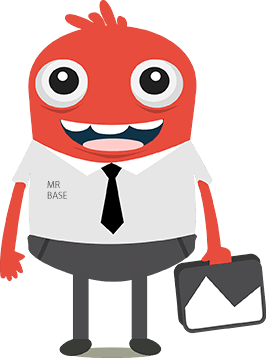
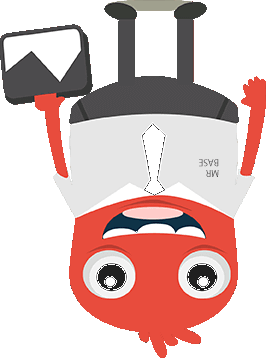
proyecto funcional

diff --git a/index.html b/index.html
@@ -70,7 +70,7 @@
     <div class="col-md-4 text-center">
         <div>
           <label class="dropimage">
-            <input title="Hacer Click aqui" type="file" name="foto1" id="foto1" required="true">
+            <input title="Hacer Click aqui" type="file" name="file" id="file" required="true">
           </label>
         </div>
     </div>

diff --git a/recibe_imgs.php b/recibe_imgs.php
@@ -1,36 +1,31 @@
 <?php 
-$archivoImg = $_FILES["foto".$i]["name"];
-$source   = $_FILES["foto".$i]["tmp_name"];
+$archivoImgName = $_FILES["file"]["name"];
+$archivoImg   = $_FILES["file"]["tmp_name"];
 
 
 //Verifico la extension de la Imagen 
-$explode        = explode('.', $archivoImg);
+$explode        = explode('.', $archivoImgName);
 $extension      = array_pop($explode);
 $grado = 180;
-//$grado = 360;
+$gradojpg = 360;
 
 
-if ($extension =="png") {
-    $imgpngOne  = imagecreatefrompng($archivoImg); 
-    $rotatepng  = imagerotate($imgpngOne, $grado, 0);
-    imagepng($rotatepng,"filesImgs/".$archivoImg);
-}
-if ($extension =="PNG") {
-    $imgpngTwo = imagecreatefrompng($archivoImg); 
+$png = 'png';
+$PNG = 'PNG';    
+if ($extension == $png || $extension == $PNG) {
+    $imgpngTwo =  imagecreatefrompng($archivoImg);
     $rotatepng = imagerotate($imgpngTwo, $grado, 0);
-    imagepng($rotatepng, "filesImgs/".$archivoImg);
-}
-if ($extension =="jpg") {
+    imagepng($rotatepng, "filesImgs/".$archivoImgName);
+}elseif ($extension == "jpg" || $extension == "jpeg") {
     $imgjpgOne  = imagecreatefromjpeg($archivoImg);
-    $rotatejpg  = imagerotate($imgjpgOne, $grado, 0);
-    imagejpeg($rotatejpg,"filesImgs/". $archivoImg);
+    $rotatejpg  = imagerotate($imgjpgOne, $gradojpg, 0);
+    imagejpeg($rotatejpg,"filesImgs/". $archivoImgName);
 }
-if ($extension =="jpeg") {
-    $imgjpegTwo   = imagecreatefromjpeg($archivoImg);
-    $rotatejpeg   = imagerotate($imgjpegTwo, $grado, 0);
-    imagejpeg($rotatejpeg,"filesImgs/". $archivoImg);
+else{
+   echo "Formato de Imagen no Valido...";
 }
-
-	
-
 ?>
+
+<script type="text/javascript">
+   location.href ="index.html";
+</script>
